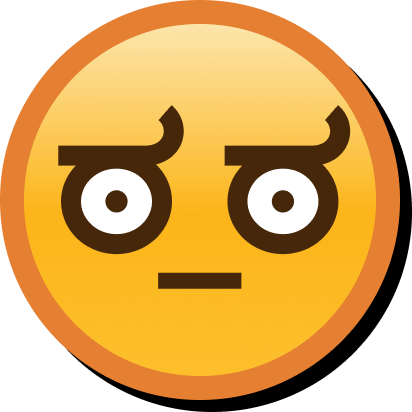
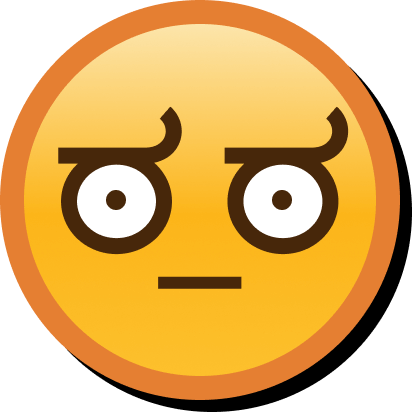
Updated look of disapproval.

diff --git a/index.html b/index.html
@@ -8,11 +8,11 @@
     <meta property="og:title" content="Karl Pablo, Front-end Web Engineer">
     <meta property="og:url" content="https://karlpablo.com">
     <meta property="og:type" content="website">
-    <meta property="og:image" content="https://karlpablo.com/disapprove.png">
+    <meta property="og:image" content="https://karlpablo.com/disapprove-noshadow.png">
     <meta property="og:description" content="Over 9 years of building delightful user interfaces and websites for top brands. Specializes in React and Vue. Highly proficient with Tailwind.">
     <meta property="og:locale" content="en_US">
     <meta name="robots" content="index, follow">
-    <link rel="icon" type="image/png" href="https://karlpablo.com/disapprove.png">
+    <link rel="icon" type="image/png" href="https://karlpablo.com/disapprove-noshadow.png">
     <link href="/main.css" rel="stylesheet">
   </head>
   <body class="bg-black">
